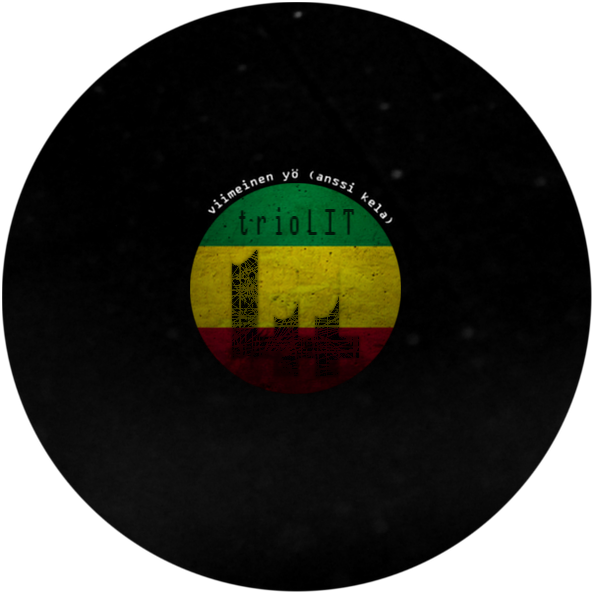
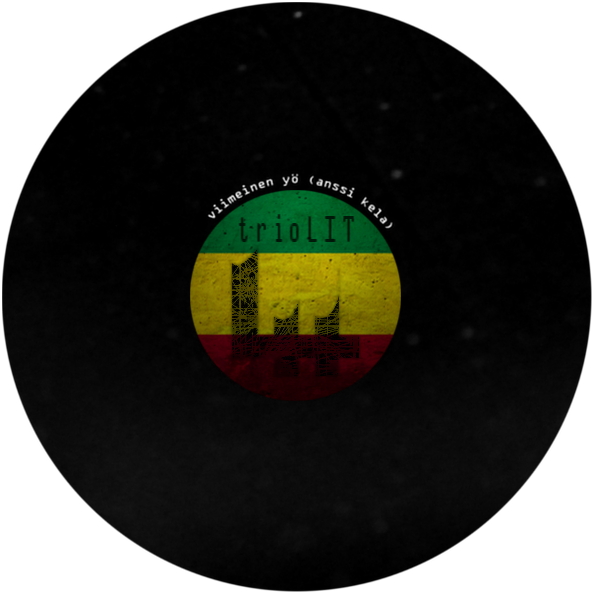
Disc is now animated

diff --git a/index.html b/index.html
@@ -16,7 +16,31 @@
             position: absolute;
             z-index: 0;
             left: 141px;
-            top: 89px;
+            top: 81px;
+            -webkit-animation-name: rotate; 
+            -webkit-animation-duration: 10s; 
+            -webkit-animation-iteration-count: infinite;
+            -webkit-animation-timing-function: linear;
+            -moz-animation-name: rotate; 
+            -moz-animation-duration: 10s; 
+            -moz-animation-iteration-count: infinite;
+            -moz-animation-timing-function: linear;
+            animation-name: rotate; 
+            animation-duration: 10s; 
+            animation-iteration-count: infinite;
+            animation-timing-function: linear;
+        }
+        @-webkit-keyframes rotate {
+            from {-webkit-transform: rotate(0deg);}
+            to {-webkit-transform: rotate(360deg);}
+        }
+        @-moz-keyframes rotate {
+            from {-moz-transform: rotate(0deg);}
+            to {-moz-transform: rotate(360deg);}
+        }
+        @keyframes rotate {
+            from {transform: rotate(0deg);}
+            to {transform: rotate(360deg);}
         }
         #overlay {
             position: absolute;
